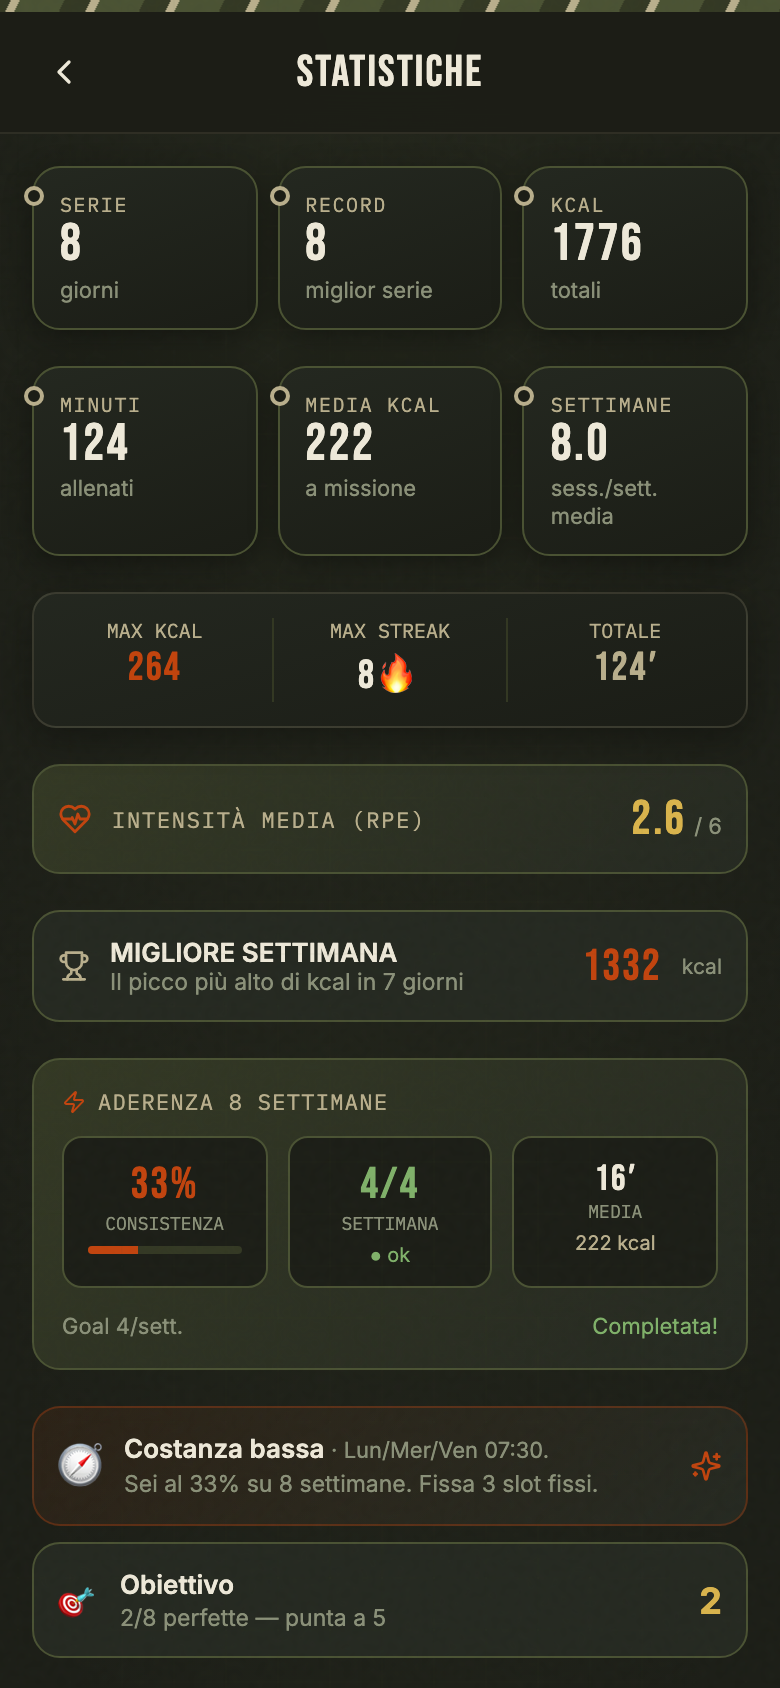
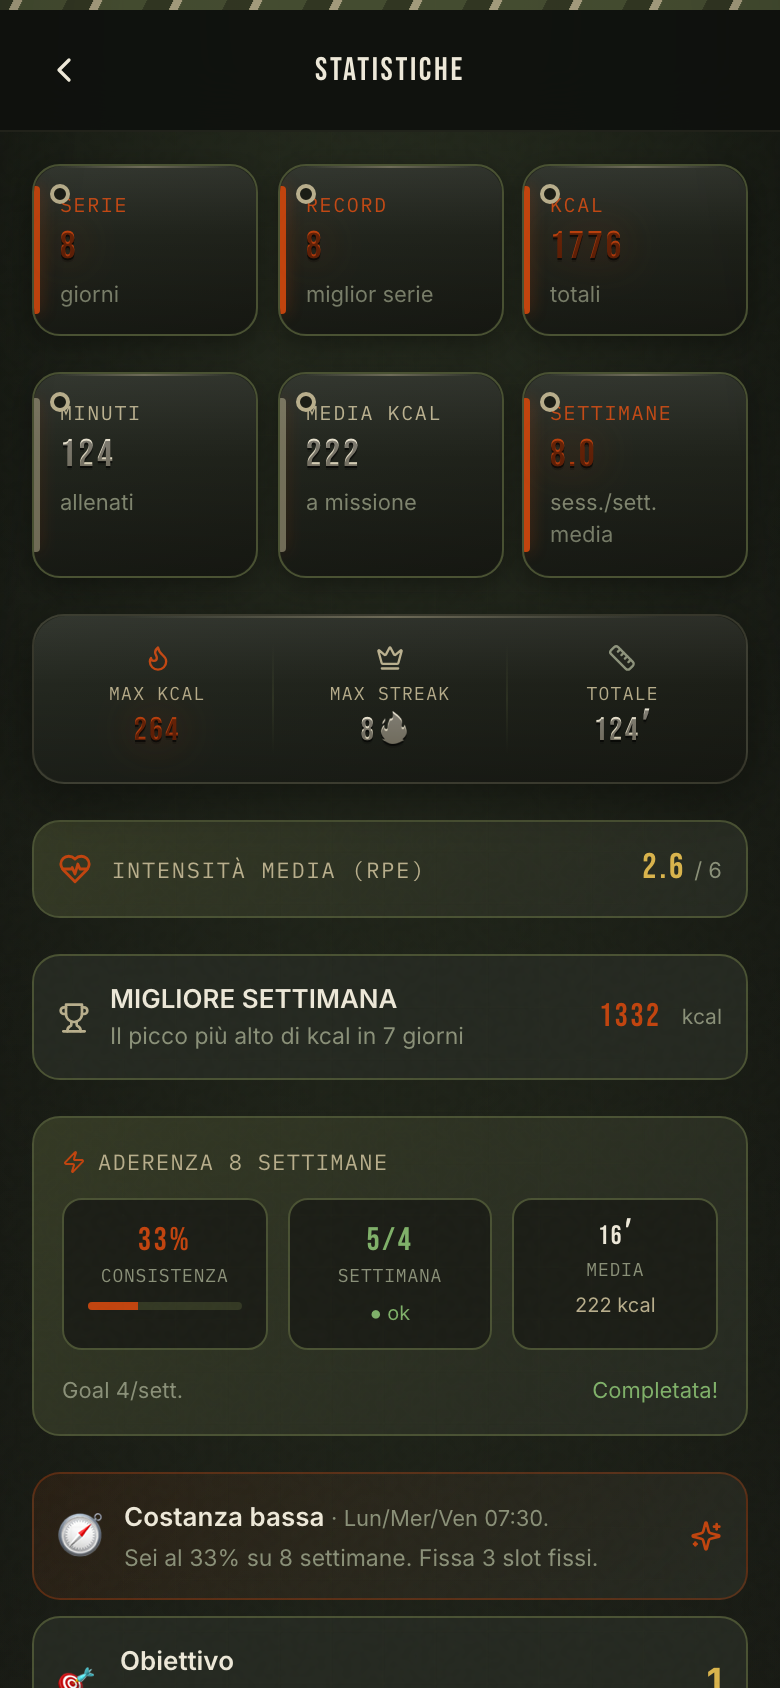
docs: aggiorna README/STRUCTURE/ROADMAP a v2.14.1 + nuovi screenshot 390×844@2x (01-05)
- README: Screenshots v2.14.1 (40 iterazioni), Features v2.14.1 (Camp 2.0 TEMPO Coach Statistiche), Project structure v2.14.1, Roadmap v2.15
- STRUCTURE: header v2.14.1 c827436/32a59f7 o40-v1d399171 + 40 iterazioni + App ~2330 lines + Camp 2.0 + clips alias 22/22
- ROADMAP: header v2.14.1 40 iterazioni + Appena fatto 40 iterazioni + Prossimi giorni aggiornato
- screenshots: rigenera 01-home, 02-libreria, 03-esercizio, 04-sessione, 05-statistiche (4.5M full + 787k crop) via scripts/screenshots.mjs Playwright 390×844@2x
- build o40-v1d399171 HistoryScreen 110k

diff --git a/STRUCTURE.md b/STRUCTURE.md
@@ -1,6 +1,6 @@
 # Operator40 — Complete Structure & Functions
 
-> **Read this to continue tomorrow without re-discovering the repo.** Updated **2026-08-27** — `main @ 5f40511` (`index-BgW1cw35.js / o40-va068d42f`) + `deploy-tmp @ 8c20bdd` (live `o40-va068d42f`). Build `2.9.0 · <git-short>` + **22 AI analyzers + audit 5 aree**.
+> **Read this to continue tomorrow without re-discovering the repo.** Updated **2026-08-28** — `main @ c827436` (`index-D3Kh0jMn.js / o40-v1d399171`) + `deploy-tmp @ 32a59f7` (live `o40-v1d399171`). Build `2.14.1 · c827436` + **40 iterazioni + Statistiche premium**.
 
 ---
 
@@ -16,7 +16,7 @@ Dark military UI (`INK`/`OLIVE`/`BLAZE`/`KHAKI`/`PAPER`), 18 programs (A–M + N
   - `operator40-Watch` — with Huawei (separate branch)
 - **Stack:** React 18, Vite 5, Capacitor 6 (`idb 8`, `@mediapipe/tasks-vision 0.10` lite/heavy/auto + GPU→CPU + WASM offline `fetch-mediapipe.mjs`), `lucide-react`, `recharts`, Vitest 1, Playwright, PHP 8.3 `web-push` 9.0
 
-**v2.9 what changed:** audit 5 aree — `src/components/ui/*` dedup, `i18n` 15+ chiavi, `audit.test.js` 21 test (30→51), `App.jsx` 9 screens `React.lazy` 749k→444k, `sw.js` SWR + `SKIP_WAITING`, `backup.js` + `STORAGE_SCHEMA_VERSION=2` (già in 2.8.3), changelog 2.9.0.
+**v2.14.1 what changed (40 iterazioni):** `Statistiche premium` (DogTag accent + PR glass + Bar gradient + heatmap 6px) + `Camp 2.0` (recovery/deload) + `TEMPO 50 BPM` + `Coach 2.0` + `Onboarding 3-step` + `Clip alias 22/22` + `HR crossfade + PWA gate` + `IMU opt-in + BeforeAfter pinch` + `A11y/Library/CSV/QR` + 23 loop OLED. Build `2.14.1` + `HistoryScreen 110k`.
 
 ---
 
@@ -34,16 +34,16 @@ operator40/
 │   ├── manifest.webmanifest
 │   └── sw.js               # offline cache-first + push + precache 6 clips + wasm/models if present, CACHE o40-v<hash>
 ├── src/
-│   ├── App.jsx             # ★ ROUTER ~1240 lines — 9 screens React.lazy + Suspense + isAiWork gated SessionAIOverlay
+│   ├── App.jsx             # ★ ROUTER ~2330 lines — 9 screens React.lazy + tourStep 3-step + motionFusion/tempo + isAiWork gated SessionAIOverlay
 │   ├── main.jsx            # bootstrap React + window.storage (IDB/Preferences) + PWA install defer
 │   ├── storage.js          # IndexedDB (idb) v2 + Preferences native, STORAGE_SCHEMA_VERSION=2 + migrateStoredDataIfNeeded + backup.js
 │   ├── media.js            # VIDEO_B64 WebP lazy 1.7M (già lazy via dynamic import in Session/Preview)
-│   ├── clips.js            # CLIP_FILES 18 MP4 + hasClip()
+│   ├── clips.js            # CLIP_FILES 18 MP4 + 5 alias (plank/jack/mountain/affondo → 22/22) + hasClip()
 │   ├── music.js            # playlist autoplay
 │   ├── i18n.js             # LANGS [it,en,de] + 15+ nuove chiavi home.section.* / setup.backup.* (audit/7)
 │   ├── data/
 │   │   ├── exercises.js    # EXERCISES 22 + EXERCISE_GROUPS (standing/ground/core)
-│   │   └── programs.js     # PROGRAMS 18, QUICK_PROGRAM, LEVELS, INTERVAL_PRESETS, DAY_CYCLE 20, BELLY_IDS, CAMP_DAYS 30, pickNextProgram
+│   │   └── programs.js     # PROGRAMS 18, QUICK_PROGRAM, LEVELS, INTERVAL_PRESETS, DAY_CYCLE + isRecoveryDay/isDeloadWeek + pickNextProgram Camp 2.0, BELLY_IDS, CAMP_DAYS 30
 │   ├── ai/                 # ★ NEW modular AI (spec §3) — continue here tomorrow
 │   │   ├── pose/
 │   │   │   ├── Geometry.ts          # 11 utils: Angle/Distance/Midpoint/Velocity/Acceleration/BodyLine/Torso/Leg/Arm/ROM/Symmetry (torso-normalized)
@@ -79,13 +79,13 @@ operator40/
 │   │   ├── stats.js, progress.js, goals.js, missions.js, motivation.js, push.js, belly.js, bellyTest.js, workout.js, audio.js, export.js, share*.js, bmi.js, body.js, audit.test.js (21), backup.js (BACKUP_VERSION=2), favorites.js, photos.js, wakeLock.js, notifications.js
 │   │   └── ...
 │   ├── components/
-│   │   ├── ui/ DogTag.jsx, ProgressRing.jsx, SegmentedProgress.jsx, styles.js (dedup audit/3)
-│   │   ├── FitnessEngineView.tsx    # AI view 22 switcher + poseQuality bar + DEBUG HUD
-│   │   ├── SessionAIOverlay.tsx     # mission→exercise auto, trackingSupported gate, voice it/en/de/fr
+│   │   ├── ui/ DogTag.jsx, ProgressRing.jsx, SegmentedProgress.jsx, styles.js (dedup + accent)
+│   │   ├── FitnessEngineView.tsx    # AI view 22 switcher + Coach 2.0 TTS + poseQuality + DEBUG HUD
+│   │   ├── SessionAIOverlay.tsx     # mission→exercise auto + IMU enableMotionFusion + voice
 │   │   ├── PoseCounter.jsx          # DEPRECATED → FitnessEngineView
 │   │   ├── PositioningMask.tsx      # alignmentScore
-│   │   ├── BellyTest.jsx, BeforeAfterSlider.jsx, ExerciseFigure.jsx, etc.
-│   │   ├── ChangelogModal.tsx   # v2.9.0 — 6 gruppi audit
+│   │   ├── BellyTest.jsx, BeforeAfterSlider.jsx (pinch-zoom + haptics), ExerciseFigure.jsx, etc.
+│   │   ├── ChangelogModal.tsx   # v2.14.1 — 10 gruppi 38-40 Statistiche premium
 │   │   └── ErrorBoundary.jsx
 │   ├── constants/theme.js
 │   └── styles/appStyles.js
@@ -105,7 +105,7 @@ operator40/
 
 ## 3. App.jsx Core
 
-**State:** `profile, sessions, customPrograms, waistHistory, weightHistory, photos, screen (loading/setup/home/library/builder/preview/countdown/session/summary/history), seq, phaseIdx, secondsLeft, paused, activeProgram, lastStats, form*, reminderHour/Minute, installPrompt, showTour, largeText, previewProgram, editingCustom, toast, exitConfirm, showBellyTest, showPose, healthImport, hrInput/waistInput/rpe/notes, sound/vibration/music*, push*, aiCoachEnabled`
+**State:** `profile, sessions, customPrograms, waistHistory, weightHistory, photos, screen (...history), seq, phaseIdx, secondsLeft, paused, activeProgram, lastStats, form*, reminderHour/Minute, installPrompt, showTour/tourStep, largeText, previewProgram, editingCustom, toast, exitConfirm, showBellyTest, showPose, healthImport, hrInput/waistInput/rpe/notes, sound/vibration/music*, push*, aiCoachEnabled, motionFusion/tempo`
 
 **Key functions:** `load persisted data (IDB/Preferences) → saveProfile → saveBellyTest → togglePush → startSession(buildSequence) → finishSession/saveSession (kcal) → checkMotivational (09:00) → sync push stats`. `SessionScreen` uses `isAiWork = aiEnabled && phase.type==='work'` → `SessionAIOverlay` else `ProgressRing`.
 
@@ -139,6 +139,6 @@ operator40/
 - Screenshots: `npm run preview` on `:4173` + `node scripts/screenshots.mjs` → `docs/screenshots/06-ai-debug.png` (commit with `git add docs/screenshots`)
 - Continue tomorrow: tune thresholds in `src/ai/exercises/analyzers/*.ts` using `landmarks.json` replay, add fixtures to `tests/fixtures/` — 2.9.0 già bumpato, prossimo 2.9.1
 
-**Current:** `main 5f40511` (`index-BgW1cw35.js / o40-va068d42f`) + `deploy-tmp 8c20bdd` live `o40-va068d42f` — audit 5 aree + changelog 2.9.0.
+**Current:** `main c827436` (`index-D3Kh0jMn.js / o40-v1d399171`) + `deploy-tmp 32a59f7` live `o40-v1d399171` — 40 iterazioni + Statistiche premium (v2.14.1).
 
-All set — continue tomorrow from `src/ai/exercises/analyzers/` with device testing.
+All set — next: `Camp 2.0` già fatto, ora `Social sfida` + `Watch` + `Offline lite.task`.

diff --git a/docs/ROADMAP.md b/docs/ROADMAP.md
@@ -1,18 +1,20 @@
 # Operator40 — Roadmap prossimi giorni
 
-> v2.13.0 · 28 Agosto 2026 · 34 iterazioni + onboarding 3-step + clip alias
+> v2.14.1 · 28 Agosto 2026 · 40 iterazioni + Statistiche premium + Camp 2.0 + TEMPO + Coach 2.0
 > Live: https://mikweb.eu/operator40/ · Repo: Mikweb2025-design/operator40
 
 ---
 
-## ✅ Appena fatto (v2.13.0 — 34 ITERAZIONI)
+## ✅ Appena fatto (v2.14.1 — 40 ITERAZIONI)
 
-**Grafica 23 loop** — zero logica toccata, 101 test verdi:
+**Grafica 40 iterazioni** — 101 test verdi, 23 loop OLED + 17 roadmap:
 - 1-10 OLED (ink #0E100D, card 165°, typo, CTA blaze, nav, HUD, micro, skeleton, aura, tokens)
 - 11-13 extra hero/card/micro + white-screen fix BLAZE_LIGHT (v2.11.1)
 - 14-23 full-app: color #0B0D0A, card radius16 selected, typo, icon halo, nav safe-area, hero filter, HUD timer, viz tooltip, forms focus 3px, cohesion
+- 24-34 onboarding 3-step + clip alias 22/22 + HR + NEFFEX + PWA + IMU + BeforeAfter (v2.12.1-v2.13.0)
+- 35-40 Camp 2.0 (recovery/deload) + TEMPO + Coach 2.0 + Statistiche premium (DogTag accent + PR glass + Bar gradient + heatmap/calendar) (v2.14.0-v2.14.1)
 
-+ bump 2.10.0→2.12.0, Changelog 7 gruppi, banner 23 loop, deploy o40-vba6f093a, white-screen fix
++ bump 2.10.0→2.14.1, Changelog 10 gruppi, banner 40 iterazioni, deploy o40-v1d399171, HistoryScreen 110k
 
 ---
 
@@ -73,4 +75,4 @@
 
 ---
 
-*Aggiornato 28 Ago 2026 — v2.13.0 · 34 iterazioni — prossimo: v2.14 Camp 2.0 + Coach vocale 2.0 + Watch*
+*Aggiornato 28 Ago 2026 — v2.14.1 · 40 iterazioni — prossimo: v2.15 Social sfida + Watch HR + Offline lite.task*
